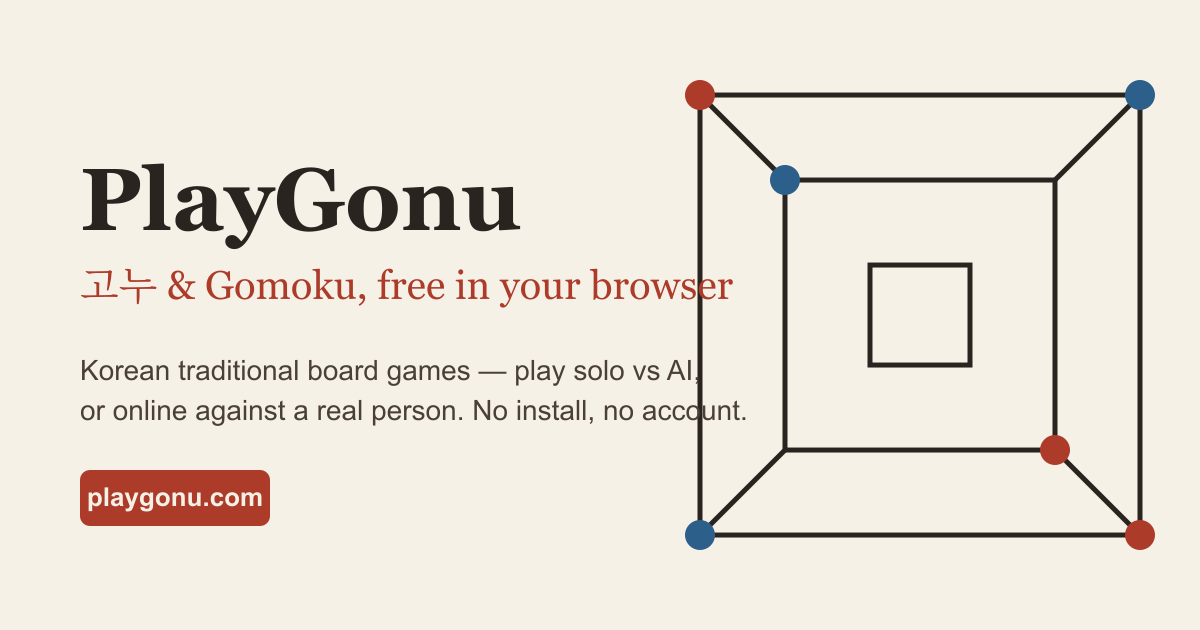
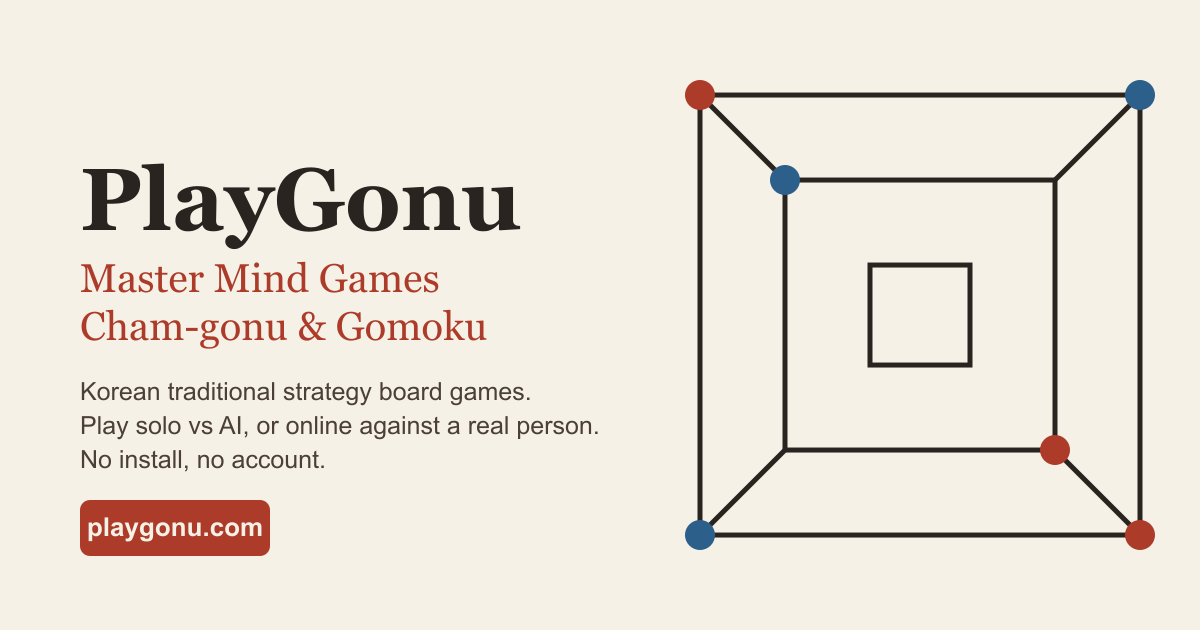
Reword the OG card tagline and fix its description overlapping the board
"free in your browser" wasn't the selling point — the card now reads
"Master Mind Games / Cham-gonu & Gomoku". The description lines were
also running into the board motif on the right, so they're rewrapped
into three shorter lines.

Changed region(s): [[0.0617, 0.573, 0.6167, 0.6937], [0.0617, 0.4222, 0.6167, 0.5429], [0.0617, 0.7238, 0.2775, 0.9048]]

diff --git a/tasks/main.md b/tasks/main.md
@@ -180,6 +180,7 @@ npm test
   - **master 깊이**: 돌 10개(흑백 합) 미만은 깊이 4, 이후 5. 깊이 5는 포지션에 따라 2~7초 걸리지만 사용자 판단으로 수용("상대편이 바로바로 안 두기 때문에 시간차는 충분"). 깊이 4를 전 구간에 쓰면 초반도 0.3~0.7초라 체감 차이가 크지 않다고 봄
   - **결과(2026-10-08 측정)**: master 80판 — 즉시승 7/7, 즉시차단 8/8, 열린3 대응 20/20, 엉뚱한 곳 0 / hard 200판 — 16/16, 20/20, 열린3 28/38→36/38 / normal 36/38 / easy는 차단 11/20(의도된 약함). `npm test` 156/156
   - **라이브(playgonu.com) 확인**: 봇전 2판 — 내 4목 즉시 차단(1.3초), 닫힌3은 정확히 무시하고 자기 열린4 → 5목 마무리, 깊이 5 구간 응답 2.1~6.3초. 커밋 `0b666e0` 푸시·배포 완료
+- [x] **OG 카드 문구 교체 (2026-10-08)** — "Free in browser 다른 멘트 없니.. 공짜인게 중요포인트는 아니잖아" → 사용자가 직접 지정한 "Master Mind Games / Cham-gonu & Gomoku"로 빨간 줄 교체. 설명문은 판 그림과 겹치던 것을 세 줄(25px)로 나눠 해결. [og-image.svg](og-image.svg) 수정 후 PNG 재생성
 - [x] **favicon.ico 추가 (2026-10-08)** — 라이브 콘솔에서 페이지 로드마다 `/favicon.ico` 404가 찍혔음(브라우저가 `<link>`와 별개로 자동 요청). favicon-32.png를 favicon.ico로 복사해 해결(브라우저는 확장자와 무관하게 PNG 바이트를 읽음)
 ## 인프라 결정 (2026-10-07, 사용자 확정)
 
